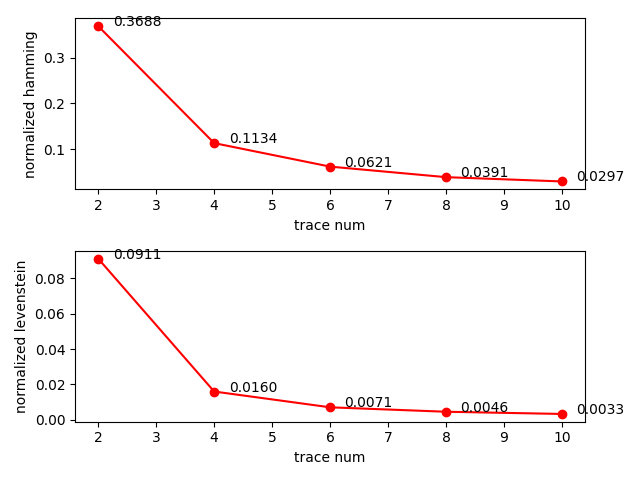
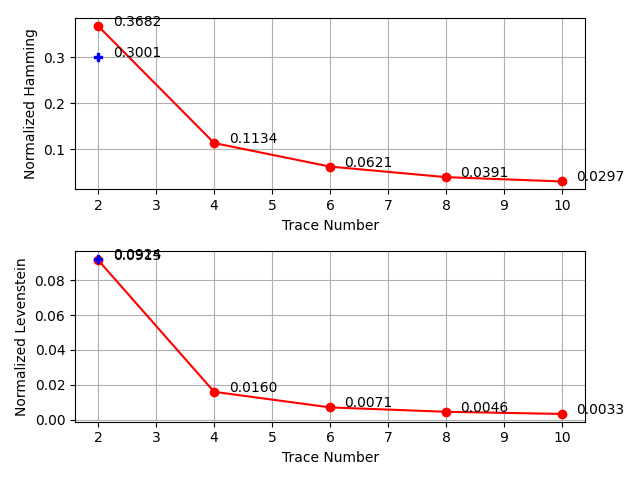
Add parsing of multi trace algorithm results

diff --git a/main.py b/main.py
@@ -13,7 +13,13 @@ import time
 import re
 from typing import NamedTuple, List
 from collections import Counter
+from enum import Enum
 import matplotlib.pyplot as plt
+
+
+class AlgorithmType(Enum):
+    MultiTrace = 1
+    TrellisBMA = 2
 
 
 class ResultEntry(NamedTuple):
@@ -27,6 +33,7 @@ class ResultEntry(NamedTuple):
 class ResultData(NamedTuple):
     filename: str
     trace_num: int
+    algorithm: AlgorithmType
     results: List[ResultEntry]
     avg_hamming: float
     normalized_hamming: float
@@ -111,13 +118,20 @@ if __name__ == '__main__':
             normalized_hamming = sum([r.hamming/len(r.original) for r in results]) / len(results)
             normalized_levenstein = sum([r.levenstein / len(r.original) for r in results]) / len(results)
 
+            # parse algorithm type
+            if "multi_trace" in file:
+                algorithm = AlgorithmType.MultiTrace
+            else:
+                # Default type is Trellis BMA for convenience
+                algorithm = AlgorithmType.TrellisBMA
             # parse trace num
             trace_num = int(re.search("results_(\\d+)_traces", file).group(1))
 
-            results_data = ResultData(file, trace_num, results, avg_hamming, normalized_hamming, avg_levenstein, normalized_levenstein)
+            results_data = ResultData(file, trace_num, algorithm, results, avg_hamming, normalized_hamming, avg_levenstein, normalized_levenstein)
             results_by_file[file] = results_data
 
             print(f"trace num: {trace_num}")
+            print(f"algorithm type: {algorithm.name}")
 
             print(f"read {len(results)} samples:")
             print(f"Normalized hamming: {normalized_hamming}, avg hamming: {avg_hamming}")
@@ -125,19 +139,38 @@ if __name__ == '__main__':
 
         if len(results_by_file) > 1:
             # draw comparison
-            trace_nums = [res.trace_num for res in results_by_file.values()]
-            normalized_hammings = [res.normalized_hamming for res in results_by_file.values()]
-            normalized_levensteins = [res.normalized_levenstein for res in results_by_file.values()]
+            trellis_bma_trace_nums = [res.trace_num for res in results_by_file.values()
+                                      if res.algorithm == AlgorithmType.TrellisBMA]
+            trellis_bma_normalized_hammings = [res.normalized_hamming for res in results_by_file.values()
+                                               if res.algorithm == AlgorithmType.TrellisBMA]
+            trellis_bma_normalized_levensteins = [res.normalized_levenstein for res in results_by_file.values()
+                                                  if res.algorithm == AlgorithmType.TrellisBMA]
+            multi_trace_trace_nums = [res.trace_num for res in results_by_file.values()
+                                      if res.algorithm == AlgorithmType.MultiTrace]
+            multi_trace_normalized_hammings = [res.normalized_hamming for res in results_by_file.values()
+                                               if res.algorithm == AlgorithmType.MultiTrace]
+            multi_trace_normalized_levensteins = [res.normalized_levenstein for res in results_by_file.values()
+                                                  if res.algorithm == AlgorithmType.MultiTrace]
+
             fig, (sub1, sub2) = plt.subplots(2)
-            sub1.plot(trace_nums, normalized_hammings, "ro-")
-            sub1.set_ylabel("normalized hamming")
-            sub1.set_xlabel("trace num")
-            for x, y in zip(trace_nums, normalized_hammings):
+            sub1.plot(trellis_bma_trace_nums, trellis_bma_normalized_hammings, "ro-")
+            sub1.plot(multi_trace_trace_nums, multi_trace_normalized_hammings, "bP")
+            sub1.set_ylabel("Normalized Hamming")
+            sub1.set_xlabel("Trace Number")
+
+            for x, y in zip(trellis_bma_trace_nums, trellis_bma_normalized_hammings):
                 sub1.annotate(f"{y:.4f}", xy=(x+0.25, y))
-            sub2.plot(trace_nums, normalized_levensteins, "ro-")
-            sub2.set_ylabel("normalized levenstein")
-            sub2.set_xlabel("trace num")
-            for x, y in zip(trace_nums, normalized_levensteins):
+            for x, y in zip(multi_trace_trace_nums, multi_trace_normalized_hammings):
+                sub1.annotate(f"{y:.4f}", xy=(x+0.25, y))
+
+            sub2.plot(trellis_bma_trace_nums, trellis_bma_normalized_levensteins, "ro-")
+            sub2.plot(multi_trace_trace_nums, multi_trace_normalized_levensteins, "bP")
+            sub2.set_ylabel("Normalized Levenstein")
+            sub2.set_xlabel("Trace Number")
+
+            for x, y in zip(trellis_bma_trace_nums, trellis_bma_normalized_levensteins):
+                sub2.annotate(f"{y:.4f}", xy=(x+0.25, y))
+            for x, y in zip(multi_trace_trace_nums, multi_trace_normalized_levensteins):
                 sub2.annotate(f"{y:.4f}", xy=(x+0.25, y))
             plt.tight_layout()
             sub1.grid()
@@ -146,6 +179,7 @@ if __name__ == '__main__':
 
         for file, result_data in results_by_file.items():
             results = result_data.results
+            print(f"File: {file}")
             if args.worst_n_hamming:
                 results.sort(key=lambda res: res.hamming, reverse=True)
                 print(f"worst {args.worst_n_hamming} cases by hamming distance:")
